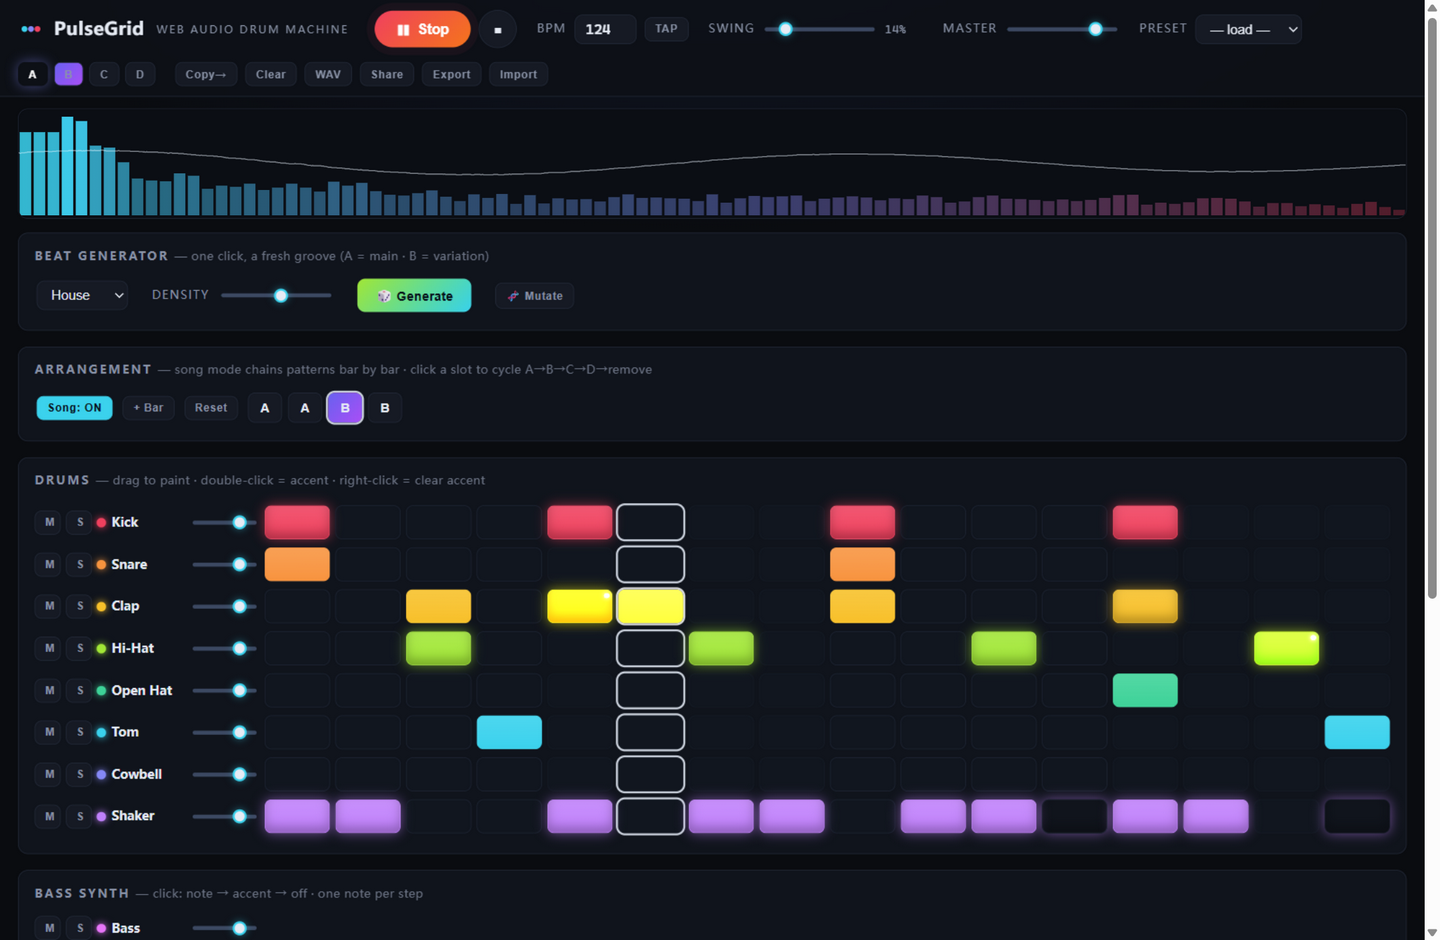
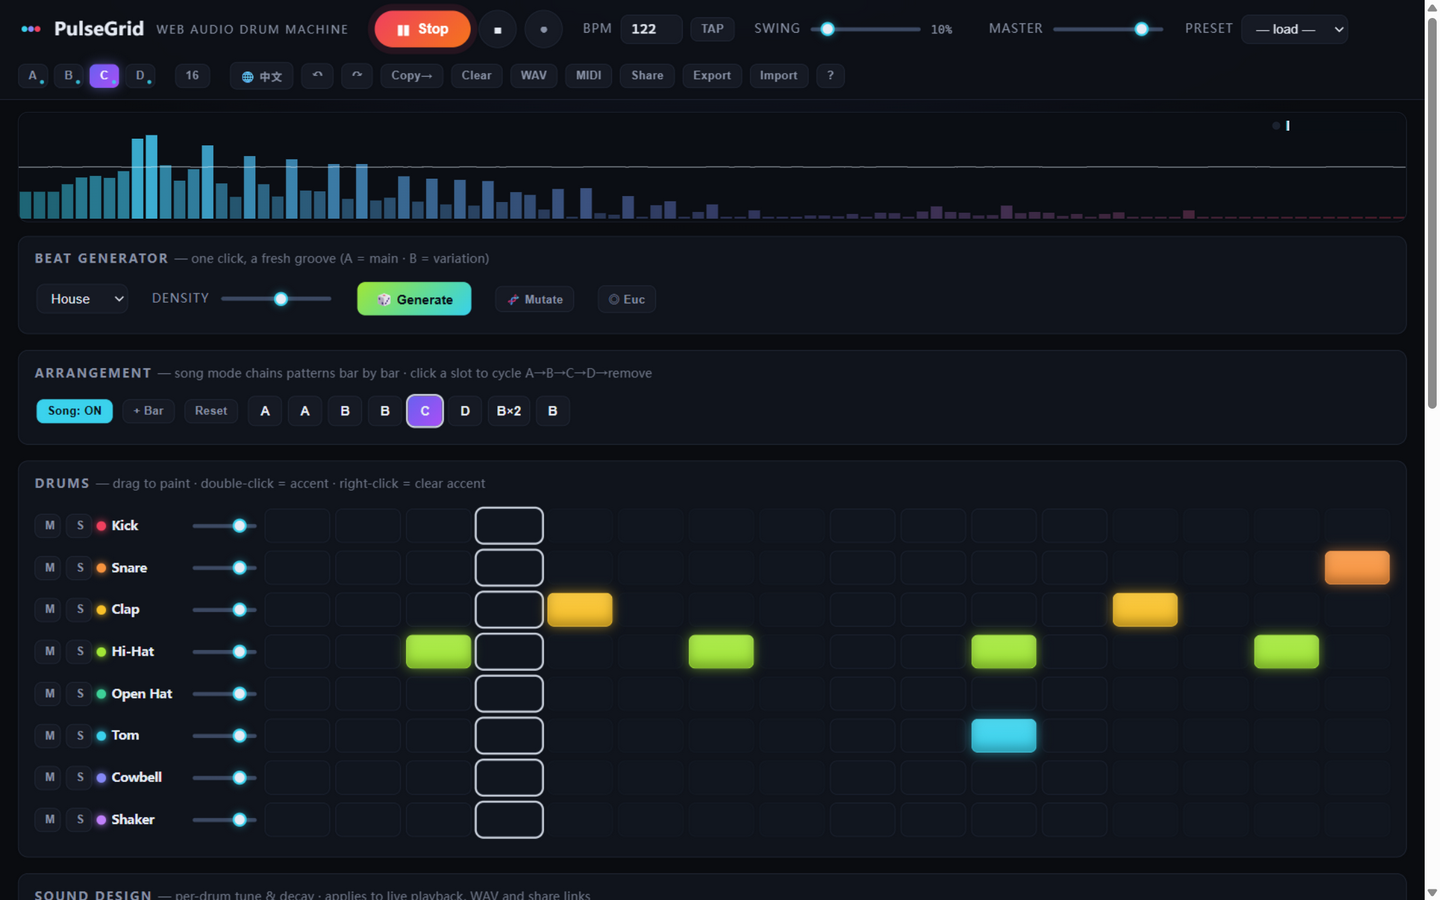
Refresh README assets to the current UI + TAP pulse
- docs/demo.gif re-recorded on the live app (English UI, demo song
  playing, filter sweep): now shows the beat generator, the song-mode
  arrangement with a highlighted chip, the lead/sound-design panels
  and the new output meter — the old gif was a v1.0 screen
- docs/screenshot-main.png replaced with a clean mid-playback frame
- TAP button pulses on every tap for audible-looking feedback

Part of the v1.5.0 batch.

diff --git a/css/style.css b/css/style.css
@@ -146,6 +146,12 @@ button.mini:disabled { opacity: 0.5; cursor: wait; }
 button.mini.active { color: #06121a; background: var(--accent); border-color: var(--accent); }
 button.mini.armed { color: #fff; background: var(--accent-2); border-color: var(--accent-2); }
 
+button.mini.tapped { animation: tappulse 0.3s ease-out; }
+@keyframes tappulse {
+  0% { background: var(--accent); color: #06121a; }
+  100% { background: var(--panel-2); color: var(--muted); }
+}
+
 .patterns { display: flex; gap: 6px; }
 .patterns .pat { position: relative; }
 .patterns .pat.has::after {

diff --git a/js/ui.js b/js/ui.js
@@ -717,6 +717,10 @@ const UI = {
     // tap tempo
     let taps = [];
     $('btnTap').addEventListener('click', () => {
+      const tapBtn = $('btnTap');
+      tapBtn.classList.remove('tapped');
+      void tapBtn.offsetWidth;
+      tapBtn.classList.add('tapped');
       const now = performance.now();
       if (taps.length && now - taps[taps.length - 1] > 2000) taps = [];
       taps.push(now);
